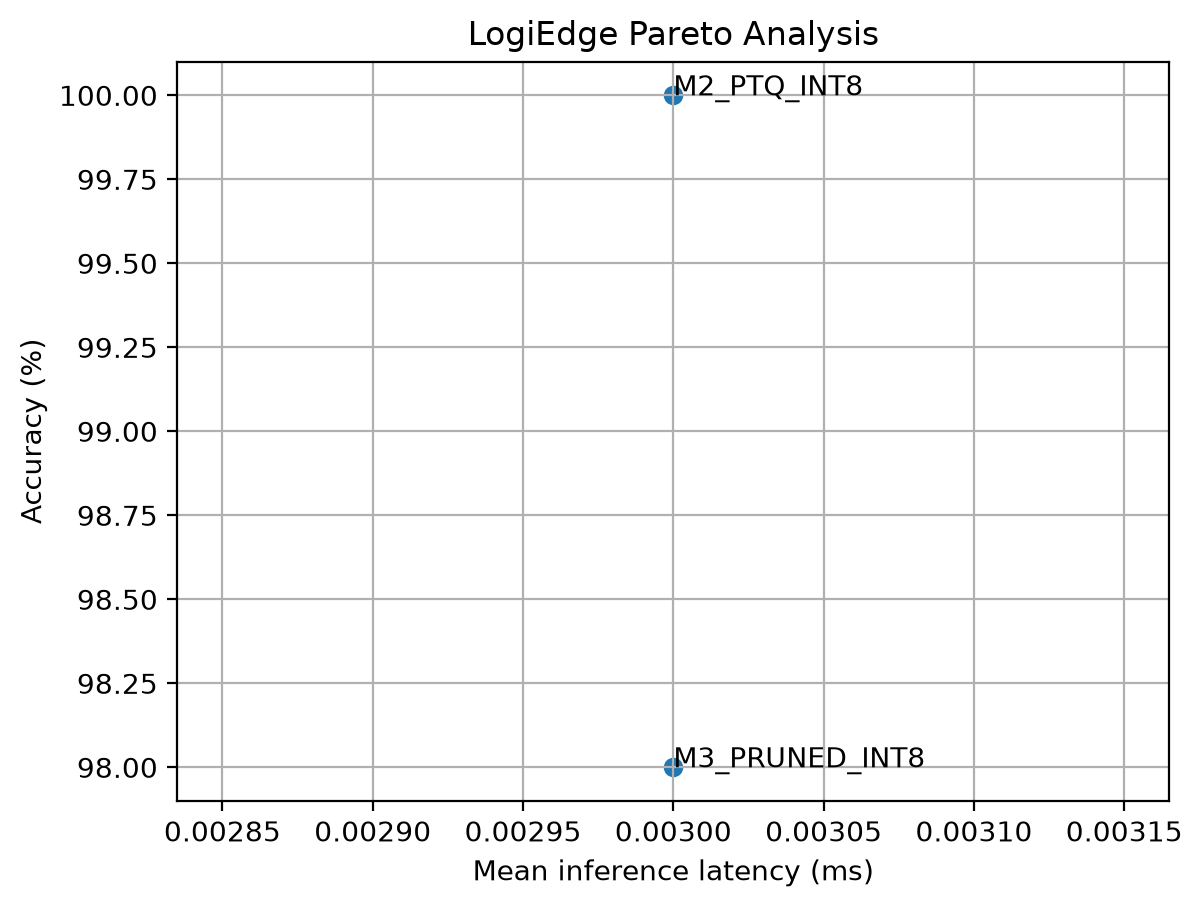
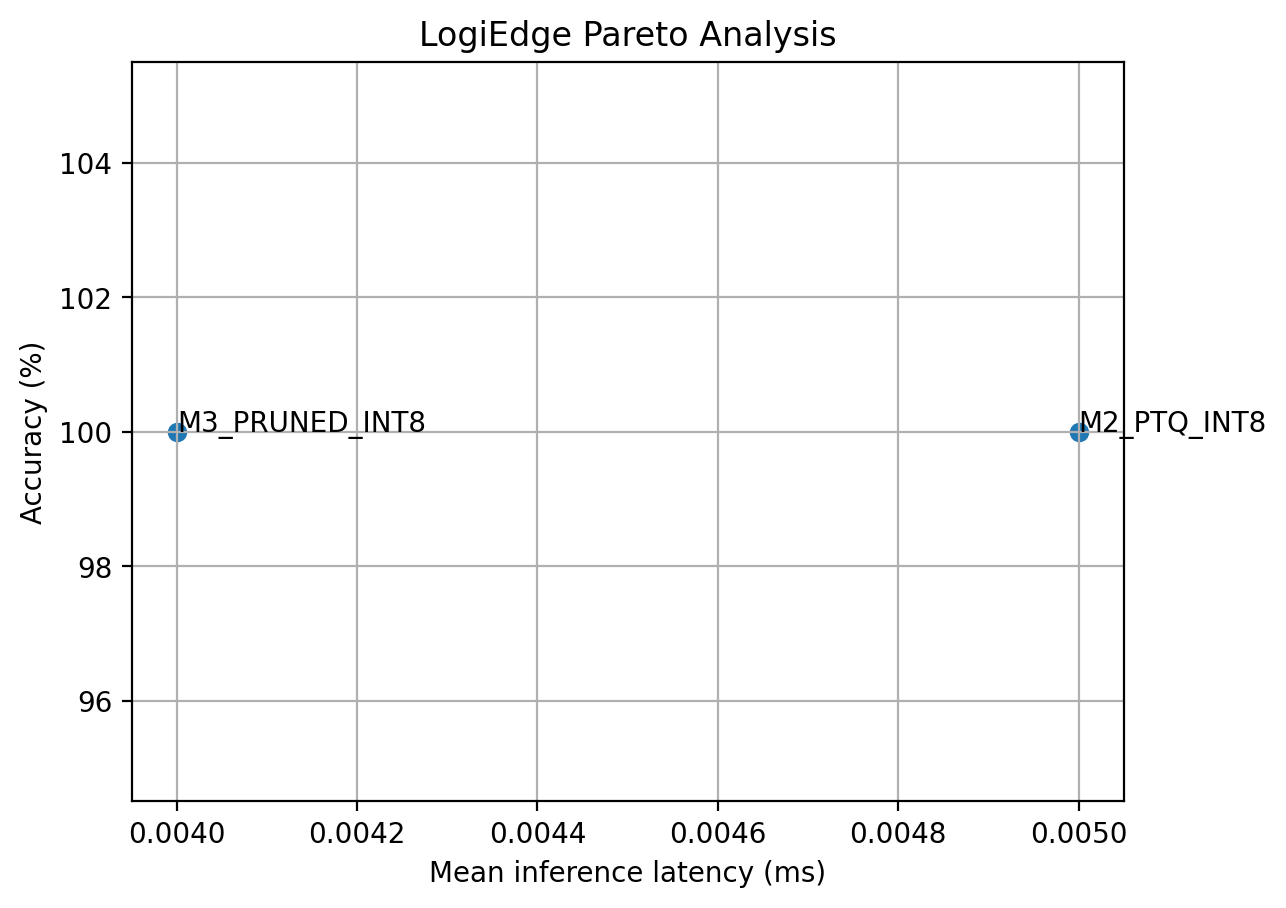
update to fix issues after test

diff --git a/monitoring/generate_reference.py b/monitoring/generate_reference.py
@@ -1,0 +1,44 @@
+import json
+import time
+import numpy as np
+import paho.mqtt.client as mqtt
+
+BINS = np.array([0.0, 0.25, 0.50, 0.75, 1.0], dtype=np.float32)
+
+scores = []
+
+def dist(scores):
+    counts, _ = np.histogram(scores, bins=BINS)
+    p = counts.astype(np.float64) / max(1, counts.sum())
+    return np.maximum(p, 1e-6)
+
+def on_message(client, userdata, msg):
+    payload = json.loads(msg.payload.decode())
+    scores.append(float(payload["confidence"]))
+
+client = mqtt.Client()
+client.on_message = on_message
+
+client.connect("localhost", 1883, 60)
+client.subscribe("logibridge/trucks/TRUCK_001/inference")
+client.loop_start()
+
+print("Collecting 300 confidence scores...")
+
+while len(scores) < 300:
+    print(f"\rCollected {len(scores)}/300", end="", flush=True)
+    time.sleep(0.2)
+
+client.loop_stop()
+
+reference = {
+    "bins": BINS.tolist(),
+    "distribution": dist(scores).tolist(),
+    "source": "300 normal inference outputs"
+}
+
+with open("reference_dist.json", "w") as f:
+    json.dump(reference, f, indent=2)
+
+print("\nReference saved successfully!")
+print("Distribution:", reference["distribution"])